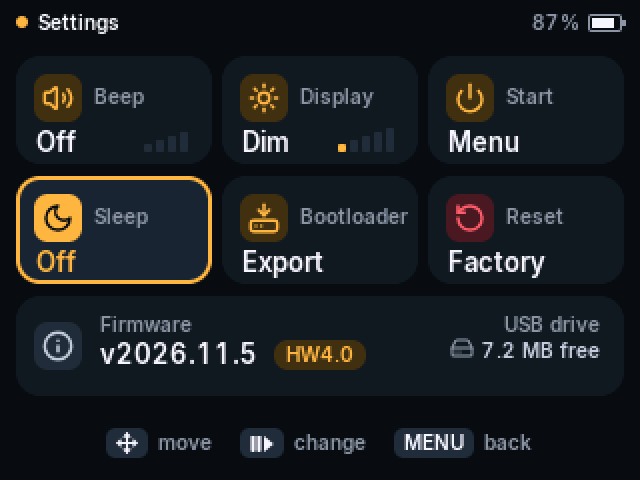
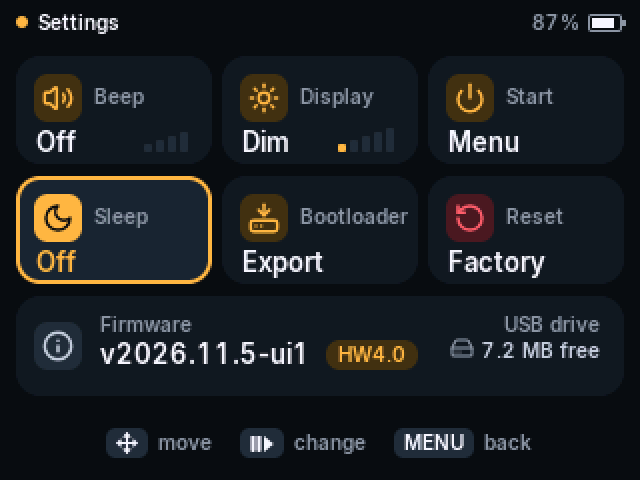
Release v2026.11.5-ui1
- Version v2026.11.5-ui1 (settings signature unchanged, so saved settings
  and calibration are kept)
- Release workflow: pushing a v* tag runs the tests, builds both targets,
  checks the binaries carry the tag's version and publishes a GitHub
  release with docs/releases/<tag>.md as notes
- README file names and screenshots updated for the new version

Claude-Session: https://claude.ai/code/session_01Kv6oatwWU24KbGdouJSCgU

Changed region(s): [[0.4062, 0.6875, 0.6562, 0.7812]]

diff --git a/src/ui.c b/src/ui.c
@@ -38,7 +38,7 @@
 #define GEN_FREQ_UNIT_COUNT 3u
 #define GEN_DUTY_EDIT_DIGITS 3u
 #define GEN_AMP_EDIT_DIGITS 2u
-#define FIRMWARE_VERSION_TEXT "v2026.11.5"
+#define FIRMWARE_VERSION_TEXT "v2026.11.5-ui1"
 #ifndef SCOPE_UI_SAFE_STUB
 #define SCOPE_UI_SAFE_STUB 1
 #endif

diff --git a/docs/releases/v2026.11.5-ui1.md b/docs/releases/v2026.11.5-ui1.md
@@ -1,0 +1,28 @@
+A modern interface for the F2C23T, built on OpenScope v2026.11.5. Measurement, oscilloscope and generator behaviour is unchanged; this release is about how everything looks and reads.
+
+## Which file to flash
+
+| Your device | File |
+|---|---|
+| Came with or runs stock firmware **2.1.0** (HW4.0) | `F2C23T-v2026.11.5-ui1-HW4.0-08007000.bin` |
+| Older hardware (never had 2.1.0) | `F2C23T-v2026.11.5-ui1-08008000.bin` |
+
+Flash with the built-in bootloader: turn the device off, hold `MENU`, press power, connect USB and copy the `.bin` to the drive that appears. The bootloader is never modified, so you can always go back the same way. Saved settings and calibration are kept.
+
+## What's new
+
+- **Modern look everywhere:** a flat dark theme, rounded cards, anti-aliased Inter type, Lucide-style icons, proper unit symbols (Ω, µ, °C) and one colour per tool.
+- **Multimeter:** a large reading with a bar graph (centred on zero in REL), a MIN / AVG / MAX row, HOLD / REL / AUTO tags, and a red outline above 30 V AC or 60 V DC. Continuity shows a green "Connected" card (below 50 Ω), and Live Wire has its own card.
+- **Main menu:** a 2×2 grid of tool cards, navigated with the arrow keys including up/down.
+- **Settings:** tiles with icons and level meters, an info card (version, hardware revision, free USB space), and rounded dialogs for bootloader export and factory reset.
+- **Oscilloscope:** a dotted graticule, channel tags, a trigger-level tag with an edge icon, measurement pills, a pill bottom bar, and modern parameter chips. The Analytical / Math, FFT and Bode views are restyled too.
+- **Signal generator:** a waveform card with a smooth preview, an Output card, and digit-by-digit editors. The Sweep and modulation menu is restyled.
+- **Key hints** show the device's own `‖▶` key symbol.
+
+## Testing status
+
+The HW4.0 build has been run on a real HW4.0 unit (shipped with 2.1.0): it boots, and the multimeter works, including live-wire detection. The oscilloscope and generator screens have been checked in pixel-exact renders but need more time on real hardware. Please report anything that looks wrong; a screenshot (long-press `SAVE`) helps.
+
+## Credits
+
+Built on [OpenScope](https://github.com/rosenrot00/OpenScope-2C23T) by rosenrot00 (GPL-3.0). Type: Inter (SIL OFL 1.1). Icons: Lucide (ISC).

diff --git a/README.md b/README.md
@@ -117,8 +117,8 @@ make release
 
 Output files:
 
-- `dist/F2C23T-v2026.11.5-08008000.bin`
-- `dist/F2C23T-v2026.11.5-HW4.0-08007000.bin`
+- `dist/F2C23T-v2026.11.5-ui1-08008000.bin`
+- `dist/F2C23T-v2026.11.5-ui1-HW4.0-08007000.bin`
 
 If no Rust toolchain provides `rust-lld`, point the build at the system LLVM linker:
 
@@ -151,8 +151,8 @@ This function never erases or programs the MCU's internal flash and never change
 
 Download the correct `.bin` file from the release assets:
 
-- Use `F2C23T-v2026.11.5-08008000.bin` if your device did **not** already have firmware `2.1.0` installed.
-- Use `F2C23T-v2026.11.5-HW4.0-08007000.bin` if your device already came with, or was already running, firmware `2.1.0`.
+- Use `F2C23T-v2026.11.5-ui1-08008000.bin` if your device did **not** already have firmware `2.1.0` installed.
+- Use `F2C23T-v2026.11.5-ui1-HW4.0-08007000.bin` if your device already came with, or was already running, firmware `2.1.0`.
 
 When upgrading to v2026.11.4, saved settings and user calibration from older OpenScope builds are not carried over. The new settings signature prevents data from another firmware from being interpreted as OpenScope settings.
 
